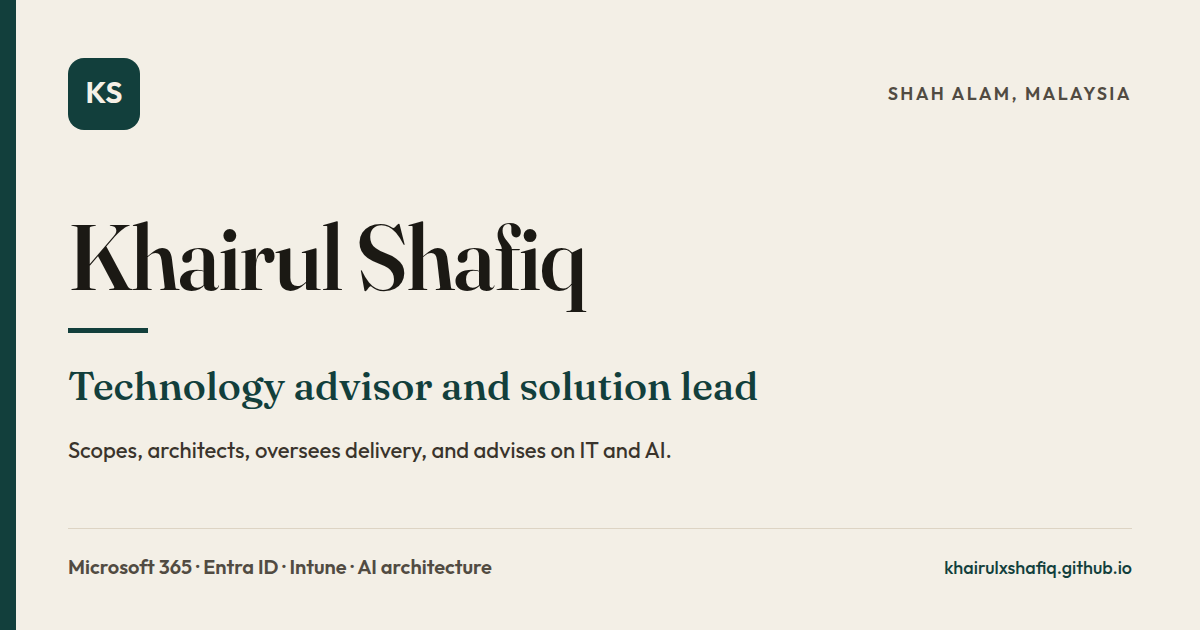
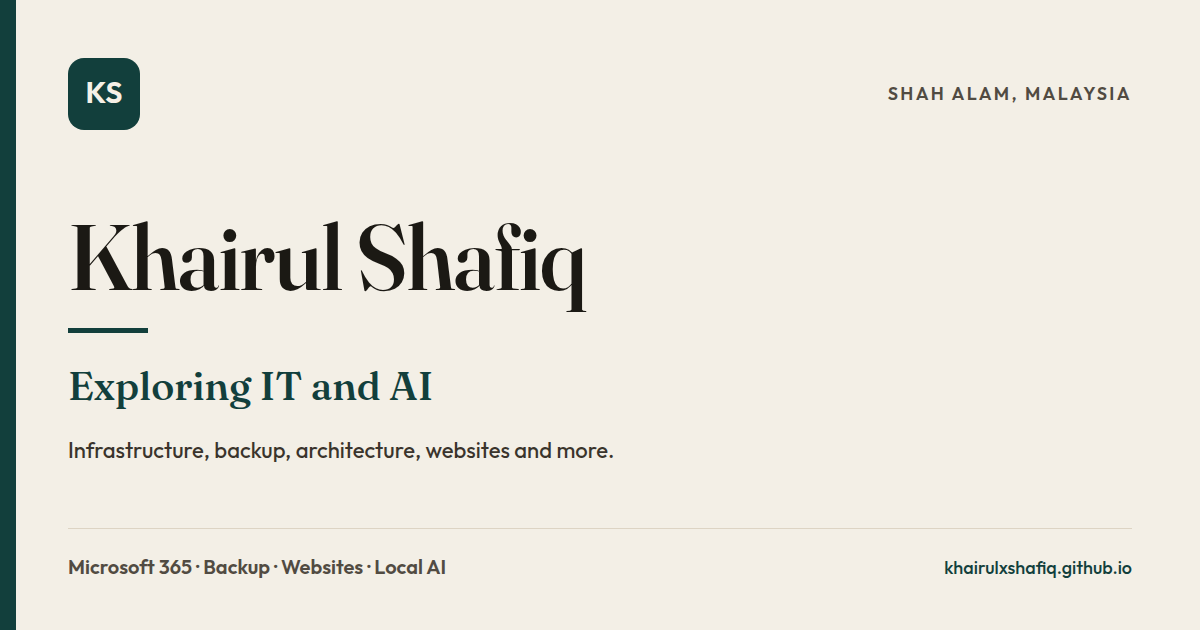
Reposition profile as IT & AI explorer
Present Khairul Shafiq as an IT professional who enjoys exploring and building with IT and AI. Replace the advisory framing with an invitation to talk about a project on LinkedIn.

Changed region(s): [[0.0617, 0.573, 0.6475, 0.6635], [0.0617, 0.6937, 0.555, 0.754], [0.185, 0.8746, 0.4008, 0.9349]]

diff --git a/index.html b/index.html
@@ -3,8 +3,8 @@
 <head>
   <meta charset="utf-8">
   <meta name="viewport" content="width=device-width, initial-scale=1">
-  <title>Khairul Shafiq | Technology Advisor &amp; Solution Lead</title>
-  <meta name="description" content="Khairul Shafiq is a technology advisor and solution lead in Shah Alam, Malaysia. He scopes, architects, oversees delivery, and advises on IT and AI.">
+  <title>Khairul Shafiq | IT &amp; AI Explorer</title>
+  <meta name="description" content="Khairul Shafiq explores and builds with IT and AI from Shah Alam: infrastructure, backup, Microsoft 365, websites, and local AI.">
   <link rel="canonical" href="https://khairulxshafiq.github.io/KhairulShafiq/">
   <meta name="robots" content="index, follow, max-image-preview:large, max-snippet:-1, max-video-preview:-1">
   <meta name="author" content="Khairul Shafiq">
@@ -17,18 +17,18 @@
   <meta property="og:type" content="profile">
   <meta property="og:site_name" content="Khairul Shafiq">
   <meta property="og:url" content="https://khairulxshafiq.github.io/KhairulShafiq/">
-  <meta property="og:title" content="Khairul Shafiq | Technology Advisor &amp; Solution Lead">
-  <meta property="og:description" content="Khairul Shafiq is a technology advisor and solution lead in Shah Alam, Malaysia. He scopes, architects, oversees delivery, and advises on IT and AI.">
+  <meta property="og:title" content="Khairul Shafiq | IT &amp; AI Explorer">
+  <meta property="og:description" content="Khairul Shafiq explores and builds with IT and AI from Shah Alam: infrastructure, backup, Microsoft 365, websites, and local AI.">
   <meta property="og:image" content="https://khairulxshafiq.github.io/KhairulShafiq/og.png">
   <meta property="og:image:type" content="image/png">
   <meta property="og:image:width" content="1200">
   <meta property="og:image:height" content="630">
-  <meta property="og:image:alt" content="Khairul Shafiq, technology advisor and solution lead based in Shah Alam, Malaysia.">
+  <meta property="og:image:alt" content="Khairul Shafiq, exploring IT and AI from Shah Alam, Malaysia.">
   <meta name="twitter:card" content="summary_large_image">
-  <meta name="twitter:title" content="Khairul Shafiq | Technology Advisor &amp; Solution Lead">
-  <meta name="twitter:description" content="Khairul Shafiq is a technology advisor and solution lead in Shah Alam, Malaysia. He scopes, architects, oversees delivery, and advises on IT and AI.">
+  <meta name="twitter:title" content="Khairul Shafiq | IT &amp; AI Explorer">
+  <meta name="twitter:description" content="Khairul Shafiq explores and builds with IT and AI from Shah Alam: infrastructure, backup, Microsoft 365, websites, and local AI.">
   <meta name="twitter:image" content="https://khairulxshafiq.github.io/KhairulShafiq/og.png">
-  <meta name="twitter:image:alt" content="Khairul Shafiq, technology advisor and solution lead based in Shah Alam, Malaysia.">
+  <meta name="twitter:image:alt" content="Khairul Shafiq, exploring IT and AI from Shah Alam, Malaysia.">
   <link rel="icon" href="favicon.svg" type="image/svg+xml">
   <link rel="icon" href="favicon-32.png" sizes="32x32" type="image/png">
   <link rel="apple-touch-icon" href="apple-touch-icon.png">
@@ -48,8 +48,8 @@
         "@id": "https://khairulxshafiq.github.io/KhairulShafiq/#khairul-shafiq",
         "name": "Khairul Shafiq",
         "alternateName": ["Mohammad Khairul Shafiq"],
-        "jobTitle": "Technology Solutioning",
-        "description": "Technology advisor and solution lead based in Shah Alam, Malaysia. He handles IT and AI work by scoping it, architecting the solution, overseeing delivery, and advising. Microsoft 365 Global Admin and subject-matter expert in Microsoft 365, Intune and endpoint management, and Entra ID. Direction: infra-to-AI solution architecture, including retrieval-augmented generation, local and private AI, and AI agents. Founder and lead of TanAir.",
+        "jobTitle": "IT professional",
+        "description": "IT professional in Shah Alam, Malaysia, who enjoys exploring and building with IT and AI: infrastructure, backup and recovery, Microsoft 365, websites, small AI tools, and local or private AI experiments. He is learning solution architecture by building with it. He built TanAir, an AI SaaS for Southeast Asian SMEs.",
         "url": "https://khairulxshafiq.github.io/KhairulShafiq/",
         "image": "https://khairulxshafiq.github.io/KhairulShafiq/og.png",
         "mainEntityOfPage": "https://khairulxshafiq.github.io/KhairulShafiq/",
@@ -69,8 +69,8 @@
         },
         "hasOccupation": {
           "@type": "Occupation",
-          "name": "Technology advisor",
-          "description": "Scopes, architects, oversees delivery, and advises on IT and AI work, including Microsoft 365, Entra ID, Intune, infrastructure, and AI solution architecture."
+          "name": "IT professional",
+          "description": "Explores and builds with infrastructure, backup and recovery, Microsoft 365, websites, small AI tools, and local or private AI."
         },
         "sameAs": [
           "https://www.linkedin.com/in/khairulshafiq",
@@ -85,7 +85,10 @@
           "Microsoft Entra ID",
           "Identity management",
           "Cloud infrastructure",
-          "AI solution architecture",
+          "Backup and recovery",
+          "Websites",
+          "Small AI tools",
+          "Solution architecture",
           "Retrieval-augmented generation",
           "Local AI",
           "Private AI",
@@ -98,7 +101,7 @@
         "url": "https://khairulxshafiq.github.io/KhairulShafiq/",
         "name": "Khairul Shafiq",
         "inLanguage": "en",
-        "description": "Professional profile of Khairul Shafiq, technology advisor and solution lead in Shah Alam, Malaysia.",
+        "description": "Profile of Khairul Shafiq, an IT professional in Shah Alam exploring and building with IT and AI.",
         "publisher": {
           "@id": "https://khairulxshafiq.github.io/KhairulShafiq/#khairul-shafiq"
         }
@@ -162,7 +165,7 @@
           <li><a href="#expertise">Expertise</a></li>
           <li><a href="#projects">Projects</a></li>
           <li><a href="#writing">Writing</a></li>
-          <li><a href="#advisory">Advisory</a></li>
+          <li><a href="#talk">Let's talk</a></li>
           <li><a href="#contact">Contact</a></li>
         </ul>
       </nav>
@@ -173,22 +176,23 @@
     <section class="hero" aria-labelledby="hero-heading">
       <div class="wrap hero-grid">
         <div class="hero-copy">
-          <p class="eyebrow"><span>Technology solutioning</span> <span>Shah Alam, Malaysia</span></p>
+          <p class="eyebrow"><span>IT and AI</span> <span>Shah Alam, Malaysia</span></p>
           <h1 id="hero-heading">
             <span class="display-name"><span class="line">Khairul</span><span class="line">Shafiq</span></span>
           </h1>
-          <p class="lede">Technology advisor and solution lead for IT and AI.</p>
-          <p class="support">He handles the work by scoping it, architecting the solution, overseeing delivery, and advising. The practice covers Microsoft 365, identity, infrastructure, and private AI, from Shah Alam.</p>
-          <ul class="practice" aria-label="How he handles the work">
-            <li>Scope</li>
-            <li>Architect</li>
-            <li>Oversee delivery</li>
-            <li>Advise</li>
+          <p class="lede">Exploring IT and AI: infrastructure, backup, architecture, websites and more.</p>
+          <p class="support">An IT professional who enjoys getting hands-on. Ten-plus years in, he still likes building and poking at things: Microsoft 365, backup and recovery, websites, small AI tools, and local experiments.</p>
+          <ul class="practice" aria-label="What he explores">
+            <li>Infrastructure</li>
+            <li>Backup</li>
+            <li>Microsoft 365</li>
+            <li>Websites</li>
+            <li>Local AI</li>
           </ul>
           <div class="cta-row">
             <a class="button button-primary" href="https://www.linkedin.com/in/khairulshafiq" rel="me noopener noreferrer" target="_blank">LinkedIn<span class="visually-hidden"> (opens in a new tab)</span></a>
             <a class="button button-secondary" href="https://github.com/khairulxshafiq" rel="me noopener noreferrer" target="_blank">GitHub<span class="visually-hidden"> (opens in a new tab)</span></a>
-            <a class="button button-secondary" href="#contact">Contact</a>
+            <a class="button button-secondary" href="#talk">Let's talk</a>
           </div>
         </div>
         <aside class="hero-panel" aria-label="At a glance">
@@ -198,7 +202,7 @@
               <span class="glance-num">01</span>
               <span class="glance-copy">
                 <strong>10+ years in IT</strong>
-                <span>Technology solutioning</span>
+                <span>Still curious, still building</span>
               </span>
             </li>
             <li>
@@ -211,8 +215,8 @@
             <li>
               <span class="glance-num">03</span>
               <span class="glance-copy">
-                <strong>Leads TanAir</strong>
-                <span>AI SaaS for Southeast Asian SMEs</span>
+                <strong>Building TanAir</strong>
+                <span>An AI project for Southeast Asian SMEs</span>
               </span>
             </li>
           </ul>
@@ -228,9 +232,9 @@
         </div>
         <div class="section-body about-grid">
           <div class="prose">
-            <p>Khairul Shafiq is based in Shah Alam, Malaysia. His practice is technology solutioning: he works as a solution lead, technology advisor, and consultant.</p>
-            <p>He has spent more than ten years in IT. He is a Microsoft 365 Global Admin and a subject-matter expert in Microsoft 365, Intune and endpoint management, and Entra ID identity.</p>
-            <p>The direction of the practice is infra-to-AI solution architecture: retrieval-augmented generation, local and private AI, and agents. He shares that work in public. He founded TanAir and leads the product.</p>
+            <p>Khairul Shafiq is based in Shah Alam, Malaysia. He is an IT professional who enjoys exploring and building with IT and AI.</p>
+            <p>More than ten years in, he still likes being close to the work: infrastructure, backup and recovery, and Microsoft 365, including time as a Global Admin with Intune, endpoints, and Entra ID.</p>
+            <p>He is learning solution architecture by building with it — websites, small AI tools, and local or private AI experiments such as retrieval-augmented generation and agents. TanAir is one of those builds, an AI product for Southeast Asian small and medium businesses. He also writes about running AI locally.</p>
           </div>
           <dl class="fact-list">
             <div>
@@ -238,20 +242,20 @@
               <dd>Shah Alam, Malaysia</dd>
             </div>
             <div>
-              <dt>Practice</dt>
-              <dd>Technology solutioning</dd>
+              <dt>Enjoys</dt>
+              <dd>Exploring and building</dd>
             </div>
             <div>
-              <dt>Role</dt>
-              <dd>Solution lead and technology advisor</dd>
+              <dt>In IT</dt>
+              <dd>10+ years</dd>
             </div>
             <div>
-              <dt>Depth</dt>
+              <dt>Hands-on</dt>
               <dd>Microsoft 365, Intune, Entra ID</dd>
             </div>
             <div>
-              <dt>Direction</dt>
-              <dd>Infra-to-AI solution architecture</dd>
+              <dt>Curious about</dt>
+              <dd>Infrastructure, backup, websites, local AI</dd>
             </div>
           </dl>
         </div>
@@ -265,41 +269,39 @@
           <h2 id="expertise-heading">Expertise</h2>
         </div>
         <div class="section-body">
-          <p class="section-intro">Where he scopes, architects, oversees, and advises.</p>
+          <p class="section-intro">What he likes to explore and build with.</p>
           <div class="card-grid card-grid-3">
             <article class="expert-card">
               <p class="kicker">01</p>
+              <h3>Infrastructure and backup</h3>
+              <p>Hands-on time with infrastructure, including backup and recovery: how systems are kept, restored, and made sense of.</p>
+              <ul class="tag-list" aria-label="Topics">
+                <li>Infrastructure</li>
+                <li>Backup</li>
+                <li>Recovery</li>
+              </ul>
+            </article>
+            <article class="expert-card">
+              <p class="kicker">02</p>
               <h3>Microsoft 365, Entra ID, and Intune</h3>
-              <p>Advisory and oversight for the Microsoft 365 estate, endpoint management with Intune, and identity in Entra ID. He works this area as a Global Admin and subject-matter expert.</p>
+              <p>Day-to-day Microsoft 365, endpoint management with Intune, and identity in Entra ID, including work as a Global Admin.</p>
               <ul class="tag-list" aria-label="Topics">
                 <li>Microsoft 365</li>
                 <li>Entra ID</li>
                 <li>Intune</li>
                 <li>Endpoints</li>
-                <li>Identity</li>
-              </ul>
-            </article>
-            <article class="expert-card">
-              <p class="kicker">02</p>
-              <h3>Cloud and infrastructure</h3>
-              <p>Architecture and oversight for the workplace platform: identity, devices, and Microsoft 365 services held in one operating picture, so delivery has a clear brief.</p>
-              <ul class="tag-list" aria-label="Topics">
-                <li>Infrastructure</li>
-                <li>Workplace cloud</li>
-                <li>Identity</li>
-                <li>Operations</li>
               </ul>
             </article>
             <article class="expert-card">
               <p class="kicker">03</p>
-              <h3>AI solution architecture</h3>
-              <p>Solution architecture for retrieval-augmented generation, local and private AI, and agents. The advice stays tied to how the systems will be scoped, run, and overseen.</p>
+              <h3>Websites, AI, and architecture</h3>
+              <p>Building websites and small AI tools, trying local and private AI, and learning how solution architecture fits together.</p>
               <ul class="tag-list" aria-label="Topics">
-                <li>RAG</li>
+                <li>Websites</li>
                 <li>Local AI</li>
                 <li>Private AI</li>
-                <li>AI agents</li>
-                <li>Solution architecture</li>
+                <li>RAG</li>
+                <li>Architecture</li>
               </ul>
             </article>
           </div>
@@ -314,19 +316,19 @@
           <h2 id="projects-heading">Projects</h2>
         </div>
         <div class="section-body">
-          <p class="section-intro">IT projects he leads, oversees, or advises on.</p>
+          <p class="section-intro">Things he has been building and exploring.</p>
           <div class="card-grid card-grid-2">
             <a class="project-card featured" href="https://tanair.my" target="_blank" rel="noopener noreferrer">
-              <p class="kicker">Leads</p>
+              <p class="kicker">Building</p>
               <h3>TanAir</h3>
               <p class="tagline">One Chat, Many Brains, Any Channel</p>
-              <p>An AI SaaS for Southeast Asian SMEs. Khairul Shafiq founded TanAir and leads the product.</p>
+              <p>An AI SaaS for Southeast Asian SMEs. Khairul Shafiq built TanAir and is still exploring it.</p>
               <span class="card-go">Visit TanAir <span aria-hidden="true">↗</span><span class="visually-hidden"> (opens in a new tab)</span></span>
             </a>
             <a class="project-card" href="https://github.com/khairulxshafiq" target="_blank" rel="me noopener noreferrer">
-              <p class="kicker">Project record</p>
+              <p class="kicker">Exploring</p>
               <h3>GitHub</h3>
-              <p>Public repositories for projects he leads, oversees, or advises on.</p>
+              <p>Public repositories: websites, small tools, and other experiments.</p>
               <span class="card-go">View GitHub <span aria-hidden="true">↗</span><span class="visually-hidden"> (opens in a new tab)</span></span>
             </a>
           </div>
@@ -344,24 +346,23 @@
           <a class="writing-card" href="https://tanair-ai.blogspot.com" target="_blank" rel="noopener noreferrer">
             <p class="kicker">Blog</p>
             <h3>Running AI locally</h3>
-            <p>Khairul Shafiq writes a blog on running AI locally.</p>
+            <p>A blog on running AI locally, from the same experiments he likes to try himself.</p>
             <span class="card-go">Read the blog <span aria-hidden="true">↗</span><span class="visually-hidden"> (opens in a new tab)</span></span>
           </a>
         </div>
       </div>
     </section>
 
-    <section class="section" id="advisory" aria-labelledby="advisory-heading">
+    <section class="section" id="talk" aria-labelledby="talk-heading">
       <div class="wrap section-grid">
         <div class="section-head">
           <p class="sec-index">05</p>
-          <h2 id="advisory-heading">Advisory</h2>
+          <h2 id="talk-heading">Let's talk</h2>
         </div>
         <div class="section-body">
           <div class="soon">
-            <p class="pill">Coming soon</p>
-            <p>Advisory and consulting on Microsoft 365, Entra ID, Intune and endpoint management, infrastructure, and AI solution architecture. An engagement covers scoping, architecture, oversight of delivery, and advice.</p>
-            <p>Ebooks on this practice are planned for this site as well. Nothing is on sale yet, and no prices are listed.</p>
+            <p>Let's talk about a project. Khairul Shafiq is open to discussing ideas together. If you want to compare notes on infrastructure, Microsoft 365, websites, or local AI, reach him on LinkedIn.</p>
+            <a class="button button-primary" href="https://www.linkedin.com/in/khairulshafiq" rel="me noopener noreferrer" target="_blank">Talk on LinkedIn<span class="visually-hidden"> (opens in a new tab)</span></a>
           </div>
         </div>
       </div>
@@ -374,11 +375,11 @@
           <h2 id="contact-heading">Contact</h2>
         </div>
         <div class="section-body">
-          <p class="section-intro">LinkedIn is the direct way to reach Khairul Shafiq about advisory work. GitHub is the public project record.</p>
+          <p class="section-intro">LinkedIn is the place to reach Khairul Shafiq and talk about an idea or a project. GitHub is where some of the building shows up.</p>
           <div class="contact-list">
             <a class="contact-primary" href="https://www.linkedin.com/in/khairulshafiq" rel="me noopener noreferrer" target="_blank">
               <span class="contact-copy">
-                <span class="kicker">Direct contact</span>
+                <span class="kicker">Let's talk</span>
                 <span class="contact-title">LinkedIn</span>
                 <span class="contact-url">linkedin.com/in/khairulshafiq</span>
               </span>
@@ -387,7 +388,7 @@
             </a>
             <a class="contact-secondary" href="https://github.com/khairulxshafiq" rel="me noopener noreferrer" target="_blank">
               <span class="contact-copy">
-                <span class="kicker">Project record</span>
+                <span class="kicker">Experiments</span>
                 <span class="contact-title">GitHub</span>
                 <span class="contact-url">github.com/khairulxshafiq</span>
               </span>
@@ -414,7 +415,7 @@
       </ul>
       <p><a href="#top">Back to top</a></p>
     </div>
-    <p class="colophon wrap">Technology advisor and solution lead.</p>
+    <p class="colophon wrap">Exploring IT and AI from Shah Alam.</p>
   </footer>
   <div class="end-bar" aria-hidden="true"></div>
 </body>

diff --git a/styles.css b/styles.css
@@ -339,7 +339,7 @@ a:visited {
 }
 
 .lede {
-  max-width: 22ch;
+  max-width: 34ch;
   margin-top: 1.5rem;
   font-family: var(--serif);
   font-weight: 520;
@@ -621,8 +621,7 @@ a:visited {
 .soon {
   display: grid;
   gap: 0.9rem;
-  border-style: dashed;
-  border-color: #c9bfae;
+  justify-items: start;
 }
 
 .soon p:not(.pill) {

diff --git a/404.html b/404.html
@@ -56,7 +56,7 @@
   <main>
     <p class="kicker">Khairul Shafiq</p>
     <h1>Page not found</h1>
-    <p>That address is not part of Khairul Shafiq’s profile.</p>
+    <p>That page is not on Khairul Shafiq’s site. The profile is still here.</p>
     <p><a href="/KhairulShafiq/">Back to the profile</a></p>
   </main>
 </body>

diff --git a/README.md b/README.md
@@ -1,6 +1,6 @@
 # Khairul Shafiq
 
-Static professional profile for Khairul Shafiq, technology advisor and solution lead.
+Static profile for Khairul Shafiq, an IT professional exploring and building with IT and AI.
 
 Published with GitHub Pages from the root of `main`:
 
